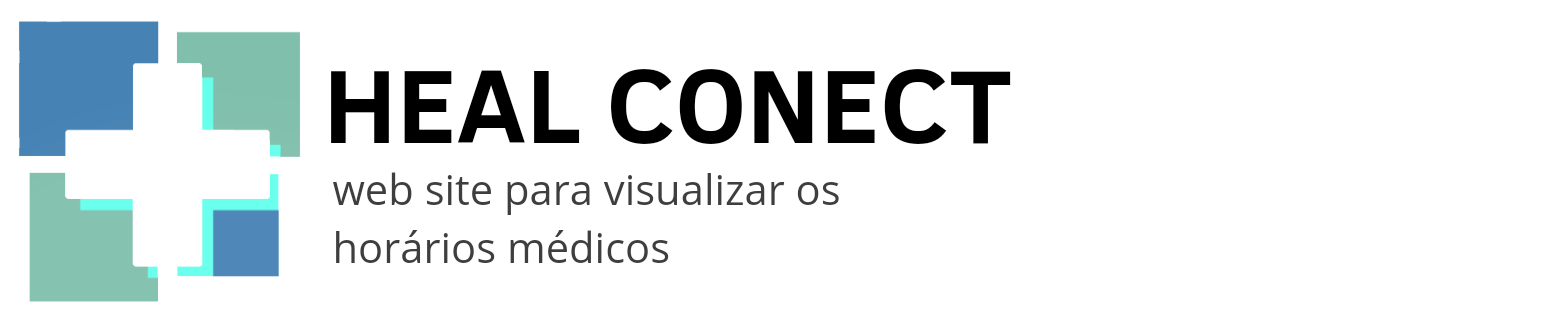
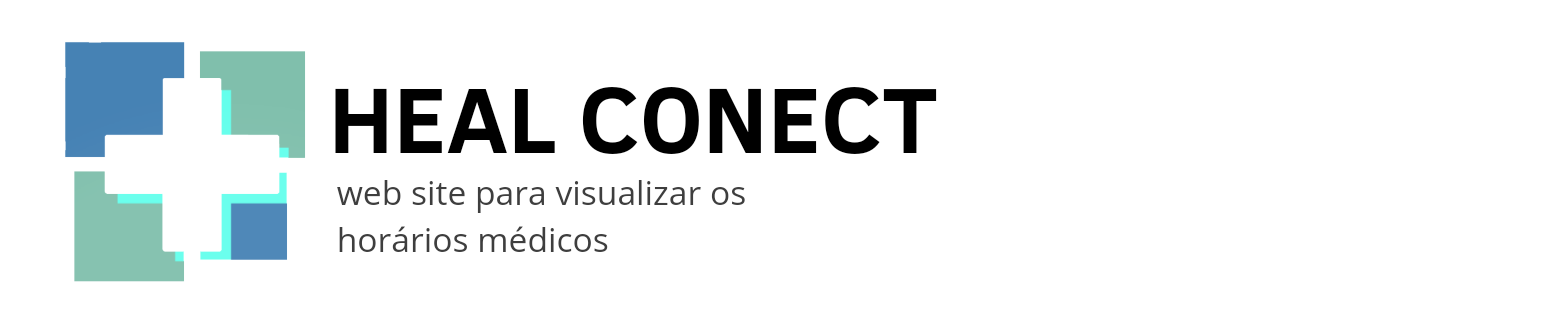
homepage alterado

diff --git a/index.html b/index.html
@@ -17,7 +17,7 @@
 
     <div class="grid-container">
         
-        <class="title"> <img src="imagens/HEAL CONECT_20240910_153134_0000.png" width="40%">
+        <class="title"> <img src="imagens/HEAL CONECT_20240910_153134_0000.png" width="39%">
     </div>
 
     <div class="imagebg principal">
@@ -29,29 +29,32 @@
             Conecte-se com a sua saúde<br><br>
         </p>
 
-        <h3 class="funcao_principal">
+        <h3 class="fonte1">
             Função principal
         </h3>
-        <br>
-
-        <h1 class="planilha">
+        
+        <h1 class="fonte2">
             Planilha de Registros
         </h1>
         <br>
 
-        <p class="descricao">
+        <p class="texto">
             O site disponibiliza os horários de entrada e saída de médicos dos hospitais cadastrados dentro da plataforma.
         </p>
 
         <br><br><br>
-        <h3 class="funcao_principal">
+        <h3 class="fonte1">
             Resultados esperados
         </h3>
-        <br>
 
-        <h2 class="planilha">
+        <h2 class="fonte2_1">
             O que esperamos com o site?
-        </h>
+        </h2>
+    </br>
+        <p class="texto">
+            Esperamos com esse site auxiliar os usuários fornecendo as informações necessárias, afim de diminuir a frustação ao chegar ao local e não ter o médico em atendimento e o gasto desnecessário de dinheiro com o percurso. Com isso, a melhora no atendimento de saúde público.
+        </p>
+            
 
     </div>
 

diff --git a/style.css b/style.css
@@ -100,7 +100,7 @@ p.slogan{
     
 }
 
-h3.funcao_principal{
+h3.fonte1{
     font-family: 'Arial', Courier, monospace;
     font-size: 25px;
     text-align: left;
@@ -111,7 +111,7 @@ h3.funcao_principal{
 }
 
 
-h1.planilha{
+h1.fonte2{
     font-family: 'Arial', Courier, monospace;
     font-size: 50px;
     text-align: left;
@@ -121,7 +121,17 @@ h1.planilha{
     
 }
 
-p.descricao{
+h2.fonte2_1{
+    font-family: 'Arial', Courier, monospace;
+    font-size: 50px;
+    text-align: left;
+    margin-left: 100px;
+    color: rgb(7,34,70);
+    
+    
+}
+
+p.texto{
     font-family: 'Arial';
     font-size: 25px;
     text-align: left;
@@ -190,7 +200,7 @@ header{
 }
 
 .imagebg{
-    background-image: url('images/19ab15938f7cf5ffa97e268736d18df6.jpg');
+    background-image: url('imagens/WhatsApp Image 2024-08-13 at 17.27.47.jpeg');
     background-repeat: no-repeat;
     background-size: 100%;
 }
